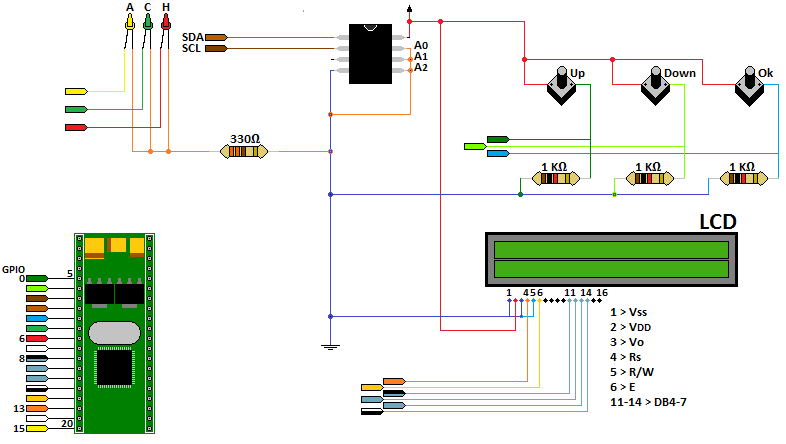
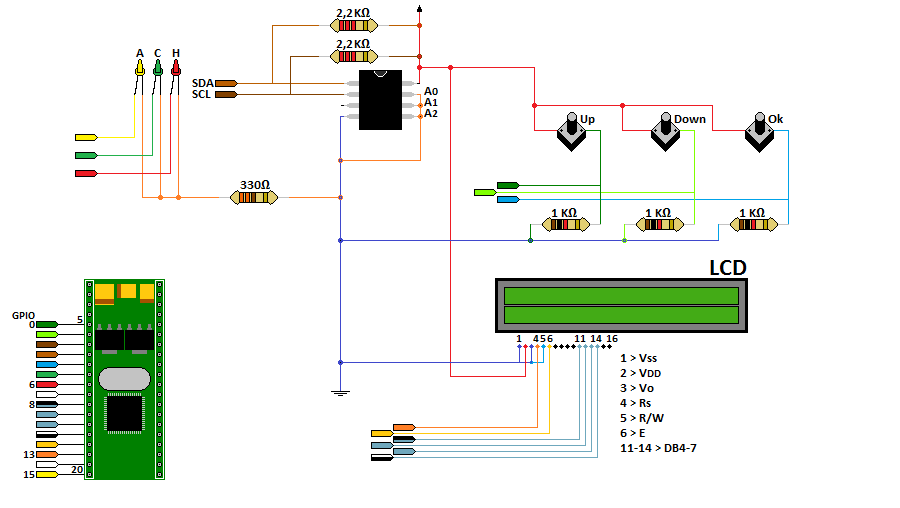
12C, log Temp; App

diff --git a/se1/sources/Manutencao/App.c b/se1/sources/Manutencao/App.c
@@ -1,6 +1,9 @@
 #include "/home/user/Desktop/host-se1/se1/includes/Button.h"
+#include "/home/user/Desktop/host-se1/se1/includes/I2C.h"
 #include "Menu.h"
 #include "/home/user/Desktop/host-se1/se1/sources/Lab7/LPC2xxx.h"
+
+
 #include <time.h>
 
 #define APP 0
@@ -11,6 +14,7 @@ void Manutencao();
 void Execute();
 void Show();
 void Register();
+void Init();
 
 
 Menu *pm;
@@ -22,29 +26,34 @@ unsigned mod;
 struct tm *pDateTime;
 unsigned lastHour;
 
+struct tm dateTime = {0};
+
+Button bUpDown[2];
+
 int main(){
 	Init();
-
-	LCD_WriteString("MODO NORMAL");
-	RTC_
+	RTC_GetValue(pDateTime);
+	//LCD_WriteString("MODO NORMAL");
 	while(1){
-		
-
 		// falta comunicar com o I2C de hora a hora e colocar na flash
 		if(mod == APP && Button_PressedMoreThan(bUpDown,2000,2) ==1){
 			mod = MANAGER;
 		}
 		Button_getState(pUD, 2);
 		if(mod == APP && (pUD)->currentState == just_pressed){
-			Button_getState(pUD,1);
-			if((pUD)->currentState == just_released)
-				break;
+			while(1){
+				Button_getState(pUD,1);
+				if((pUD)->currentState == just_released)
+					break;
+			}
 			mod = SHOW;
 		}
-		if(mod == APP && (pUD+1)->currentState == just_pressed){
-			Button_getState(pUD+1,1);
-			if((pUD+1)->currentState == just_released)
-				break;
+		if(mod == APP && (pUD+1)->currentState == just_pressed){			
+			while(1){
+				Button_getState(pUD+1,1);
+				if((pUD+1)->currentState == just_released)
+					break;
+			}
 			mod = SHOW;
 		}
 		Execute();
@@ -56,7 +65,6 @@ void Init(){
 	//struct tm dateTime = localtime(&result);
 	//printf("%s", asctime(localtime(&result)));
 	
-	struct tm dateTime = { 0 };
 	dateTime.tm_sec = 0;
 	dateTime.tm_min = 20;
 	dateTime.tm_hour = 12;
@@ -66,7 +74,7 @@ void Init(){
 
 	pDateTime = &(dateTime);
 
-	RTC_Init(dateTime);
+	RTC_Init(pDateTime);
 	TMR0_Init(100000);
 	LCD_Init();
 	I2C_Init();
@@ -82,7 +90,8 @@ void Init(){
 	Button bUp = Button_Init(0);
 	Button bDown = Button_Init(1);
 	Button bOk = Button_Init(4);
-	Button bUpDown[2] = { bUp, bDown };
+	bUpDown[0] = bUp;
+	bUpDown[1] = bDown;
 	Button allBut[3] = {
 		bOk,
 		bUp,
@@ -91,7 +100,7 @@ void Init(){
 	pButs = allBut;
 	pUD = bUpDown;
 	mod = APP;
-
+	lastHour =-1;
 }
 
 void Execute(){
@@ -168,22 +177,21 @@ void Show(){
 	char *hour = "00:00";
 	char *date = "00-00-0000";
 
-	struct tm *dateTime = { 0 };
-	RTC_GetValue(dateTime);
-	n2str(date, dateTime->tm_mday & 0x1F, 0);
-	n2str(date, dateTime->tm_mon & 0x0F, 3);
-	putYear(date, dateTime->tm_year, 6);
-	n2str(hour, dateTime->tm_hour & 0x3F, 0);
-	n2str(hour, dateTime->tm_min & 0x3F, 3);
+	RTC_GetValue(pDateTime);
+	n2str(date, pDateTime->tm_mday & 0x1F, 0);
+	n2str(date, pDateTime->tm_mon & 0x0F, 3);
+	year2str(date, pDateTime->tm_year, 6);
+	n2str(hour, pDateTime->tm_hour & 0x3F, 0);
+	n2str(hour, pDateTime->tm_min & 0x3F, 3);
 	
 	LCD_Clear();
 	LCD_On();
 	LCD_WriteString("Max:"); 
-	unsigned int max = I2C_Tranfer(0x00, 0, 0xA1, 2, 100000); // temp max
+	unsigned int max = I2C_Transfer(0x00, 0, (void*)0xA1, 2, I2C_FREQ); // temp max
 	LCD_WriteString(""+max);
 	LCD_WriteChar(' ');
 	LCD_WriteString("Min:"); 
-	unsigned int min = I2C_Tranfer(0x00, 0, 0xA2, 2, 100000); // temp min
+	unsigned int min = I2C_Transfer(0x00, 0, (void*)0xA2, 2, I2C_FREQ); // temp min
 	LCD_WriteString(""+min);
 	LCD_Goto(1,0);
 	LCD_WriteString(date);
@@ -199,11 +207,13 @@ void Register(){
 		lastHour = pDateTime->tm_hour;
 		LCD_On();
 		LCD_Clear();
+		char data[1] = {0xA1};
+		unsigned int TH = I2C_Transfer(0x90, 1, (void*)data, 1, I2C_FREQ); //temp actual
+		data[0] = 0xA2;
+		unsigned int TL = I2C_Transfer(0x90, 1, (void*)data, 1, I2C_FREQ); //temp actual
+
 		LCD_WriteString("REGISTER");
 		LCD_Off();
-	
-		unsigned int temp = I2C_Tranfer(0x00, 0, 0x AA, 2, 100000); //temp actual
-
 	}
 	
 }

diff --git a/se1/sources/Manutencao/I2C.c b/se1/sources/Manutencao/I2C.c
@@ -1,7 +1,7 @@
 /** @file I2C.c
 *  I2C module .
 */
-#include "I2C.h"
+#include "/home/user/Desktop/host-se1/se1/includes/I2C.h"
 #include "/home/user/Desktop/host-se1/se1/includes/GPIO.h"
 #include "/home/user/Desktop/host-se1/se1/includes/LPC2xxx.h"
 #include "/home/user/Desktop/host-se1/se1/includes/LPC2106.h"
@@ -63,7 +63,7 @@ void I2C_Init(void){
 * @return Correspondem aos valores do registo I2CSTAT do controlador I2C.
 */
 unsigned int I2C_Transfer(unsigned char addr, int read, void *data, unsigned int size, int freq){
-
+	unsigned res,res2;
 	unsigned int SCL;
 	
 	unsigned char status;
@@ -72,10 +72,12 @@ unsigned int I2C_Transfer(unsigned char addr, int read, void *data, unsigned int
 	
 	void *finalAddress = ((char*)data + size * sizeof(char));
 	
-	SCL = ((LPC2106_MAIN_OSC)/freq)/2; 
+	SCL = ((LPC2106_PCLK)/freq)/2; 
 	I2C_Start(SCL);
 	while(1){
+		res= LPC2106_I2C.I2CONSET;
 		if((LPC2106_I2C.I2CONSET & I2C_SI_FLAG) == I2C_SI_FLAG){
+			res2 = LPC2106_I2C.I2STAT;
 			switch(LPC2106_I2C.I2STAT){
 				case I2C_STATE_START:
 				case I2C_STATE_REPEAT_START:
@@ -127,6 +129,10 @@ unsigned int I2C_Transfer(unsigned char addr, int read, void *data, unsigned int
 					return status;
 			}	
 		}
+		else{
+			int i =0;
+		}
+		
 	}
 }
 
@@ -138,7 +144,7 @@ void I2C_Start(int scl){
 	LPC2106_I2C.I2SCLH = scl;
 	LPC2106_I2C.I2SCLL = scl;
 	LPC2106_I2C.I2CONCLR = I2C_CLEAR_ALL_FLAGS;
-	LPC2106_I2C.I2CONSET = I2C_STA_FLAG | I2C_I2EN_FLAG;
+	LPC2106_I2C.I2CONSET = I2C_I2EN_FLAG | I2C_STA_FLAG;
 }
 
 /**
@@ -153,7 +159,7 @@ void I2C_Stop(){
 * Afecta o endereço do periferico que se pretende comunicar
 */
 void setSlaveAddr(unsigned char addr, int read){
-	LPC2106_I2C.I2DAT = (addr<<1) || (read & 1);
+	LPC2106_I2C.I2DAT = (addr) | (read & 1);
 }
 
 /**

diff --git a/se1/includes/I2C.h b/se1/includes/I2C.h
@@ -4,6 +4,10 @@
 #ifndef _I2C_H_
 #define _I2C_H_
 
+#include <string.h>
+
+
+#define I2C_FREQ 100000
 /**
 * Faz a iniciação do sistema para permitir o acesso ao controlador I2C. 
 */
@@ -21,5 +25,12 @@ void I2C_Init(void);
 * @return Correspondem aos valores do registo I2CSTAT do controlador I2C.
 */
 unsigned int I2C_Transfer(unsigned char addr, int read, void *data, unsigned int size, int freq);
+
+void I2C_Read(void *data);
+void I2C_Write(void *data);
+void setSlaveAddr(unsigned char addr, int read);
+void I2C_Stop();
+void I2C_Start(int scl);
+
 
 #endif

diff --git a/se1/includes/Log.h b/se1/includes/Log.h
@@ -1,0 +1,12 @@
+#ifndef LOG_h
+#define LOG_h
+
+typedef struct tempReg{
+	char hour;
+	char temp;
+} TempReg;
+
+void WriteData(char hour, char temp);
+char* ShowTemp(TempReg tr);
+
+#endif
